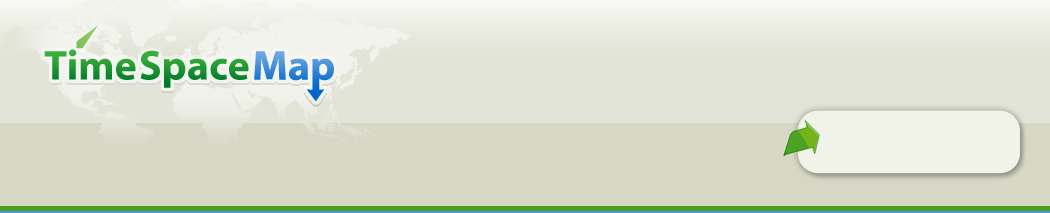
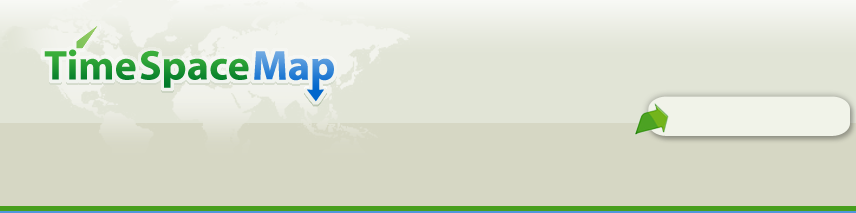
TSM-144 - page width * page width is now about 870px

Changed region(s): [[0.729, 0.4507, 1.0, 0.8451], [0.0304, 0.1408, 0.3949, 0.4789], [0.7897, 0.4225, 0.972, 0.4507]]

diff --git a/trunk/tsm/src/main/webapp/css/main.css b/trunk/tsm/src/main/webapp/css/main.css
@@ -16,7 +16,7 @@
 	margin: 0;
 	padding: 0;
 	top: -152px;
-	width: 1050px;
+	width: 855px;
 	margin-right:auto;
 	margin-left:auto;
 	}
@@ -34,11 +34,11 @@
 	width:100%;
 	}
 	#main #left {
-	padding: 15px 20px 0 25px;
+	padding: 15px 10px 0 25px;
 	}
 	#main #right {
-	padding: 25px 25px 0 20px;
-	width: 540px;
+	padding: 25px 25px 0 10px;
+	width: 500px;
 	}
 	#main p{
 	margin: 0 0 .8em 0;
@@ -55,7 +55,7 @@
 	#main #spotlightbox {
 	background: url(../images/spotlight-backg.png) repeat-x;
 	height:496px;
-	width:551px;
+	width:491px;
 	}
 	#main #borderbox {
 	text-align:center
@@ -77,6 +77,9 @@
 	padding: 1em .4em;
 	margin: 0;
 	font-weight:bold;
+	}
+	#main .rightwidth {
+	width:320px;
 	}
 	#main .recent hr {
 	color: #BBC7D5;

diff --git a/trunk/tsm/src/main/webapp/css/header.css b/trunk/tsm/src/main/webapp/css/header.css
@@ -18,8 +18,8 @@
 	
 	#addbox {
 	position:relative;
-	left: 830px;
-	top: 52px;
+	left: 684px;
+	top: 43px;
 	font-weight: bold;
 	width: 15em;
 	}
@@ -30,7 +30,7 @@
 	position:absolute;
 	top: 68px;
 	left:40px;
-	width: 1050px;
+	width: 855px;
 	margin-right:auto;
 	margin-left:auto;
 	font-weight: bold;

diff --git a/trunk/tsm/src/main/webapp/css/search.css b/trunk/tsm/src/main/webapp/css/search.css
@@ -4,9 +4,7 @@
 	background: #FFFFFF url(../images/search-backg.gif) repeat-x;
 	}
 	#addbox {
-	position:relative;
-	left: 830px;
-	top: 54px;
+	top: 48px;
 	}
   #headerbar {
 	height:147px;
